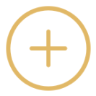
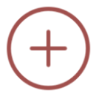
New L&F.

Changed region(s): [[0.0625, 0.0625, 0.9688, 0.9688], [0.3125, 0.3125, 0.7188, 0.7188]]

diff --git a/CoderToDo/Shared/Model/AKConstants.swift b/CoderToDo/Shared/Model/AKConstants.swift
@@ -82,14 +82,14 @@ struct GlobalConstants {
     // L&F
     static let AKDefaultFont = "HelveticaNeue-Thin"
     static let AKSecondaryFont = "HelveticaNeue-CondensedBold"
-    static let AKDefaultBg = Func.AKHexColor(0x373B44)
-    static let AKDefaultFg = Func.AKHexColor(0xffffff)
+    static let AKDefaultBg = Func.AKHexColor(0x202328)
+    static let AKDefaultFg = Func.AKHexColor(0xFFFFFF)
     static let AKTabBarBg = GlobalConstants.AKDefaultBg
     static let AKTabBarTintNormal = GlobalConstants.AKDefaultFg
-    static let AKTabBarTintSelected = Func.AKHexColor(0xE1B866)
+    static let AKTabBarTintSelected = Func.AKHexColor(0x007AFF)
     static let AKDefaultTextfieldBorderBg = Func.AKHexColor(0x999999)
     static let AKOverlaysBg = GlobalConstants.AKDefaultBg
-    static let AKDefaultViewBorderBg = Func.AKHexColor(0x999999)
+    static let AKDefaultViewBorderBg = Func.AKHexColor(0x373B44)
     static let AKDefaultFloatingViewBorderBg = UIColor.black
     static let AKDisabledButtonBg = Func.AKHexColor(0x999999)
     static let AKEnabledButtonBg = Func.AKHexColor(0x0088CC)
@@ -98,10 +98,10 @@ struct GlobalConstants {
     static let AKPickerViewFg = GlobalConstants.AKDefaultFg
     static let AKViewCornerRadius: CGFloat = 8.0
     static let AKButtonCornerRadius: CGFloat = 4.0
-    static let AKDefaultBorderThickness = 1.4
+    static let AKDefaultBorderThickness = 2.0
     static let AKDefaultTextfieldBorderThickness = 2.0
     static let AKDefaultTransitionStyle = UIModalTransitionStyle.crossDissolve
-    static let AKBadgeColorBg = Func.AKHexColor(0xBD5532)
+    static let AKBadgeColorBg = Func.AKHexColor(0x458588)
     static let AKBadgeColorFg = Func.AKHexColor(0xFFFFFF)
     // Validations
     static let AKMaxUsernameLength = 12
@@ -149,7 +149,7 @@ enum CustomBorderDecorationPosition: Int {
 
 enum ProjectStatus: String {
     case OPEN = "Open"
-    case ACEPTING_TASKS = "Accepting Tasks"
+    case ACEPTING_TASKS = "Accepting"
     case CLOSED = "Closed"
 }
 

diff --git a/CoderToDo/iPhone/Controllers/AKSortProjectSelectorViewController.swift b/CoderToDo/iPhone/Controllers/AKSortProjectSelectorViewController.swift
@@ -81,7 +81,7 @@ class AKSortProjectSelectorViewController: AKCustomViewController, UIPickerViewD
             pickerLabel.text = ""
         }
         
-        pickerLabel.font = UIFont(name: GlobalConstants.AKSecondaryFont, size: 18)
+        pickerLabel.font = UIFont(name: GlobalConstants.AKSecondaryFont, size: 16)
         pickerLabel.textAlignment = NSTextAlignment.center
         
         return pickerLabel
@@ -117,12 +117,17 @@ class AKSortProjectSelectorViewController: AKCustomViewController, UIPickerViewD
         self.order.tag = LocalEnums.order.rawValue
         
         // Custom L&F.
-        self.controlsContainer.layer.cornerRadius = GlobalConstants.AKViewCornerRadius
-        self.controlsContainer.layer.masksToBounds = true
         Func.AKAddBlurView(view: self.controlsContainer, effect: UIBlurEffectStyle.dark, addClearColorBgToView: true)
         
         self.filters.layer.cornerRadius = GlobalConstants.AKButtonCornerRadius
         self.order.layer.cornerRadius = GlobalConstants.AKButtonCornerRadius
         self.sort.layer.cornerRadius = GlobalConstants.AKButtonCornerRadius
+        
+        Func.AKAddBorderDeco(
+            self.controlsContainer,
+            color: GlobalConstants.AKDefaultViewBorderBg.cgColor,
+            thickness: GlobalConstants.AKDefaultBorderThickness,
+            position: .top
+        )
     }
 }

diff --git a/CoderToDo/iPhone/Controllers/AKAddViewController.swift b/CoderToDo/iPhone/Controllers/AKAddViewController.swift
@@ -7,6 +7,8 @@ class AKAddViewController: AKCustomViewController
     
     // MARK: Outlets
     @IBOutlet weak var controlsContainer: UIView!
+    @IBOutlet weak var addCategory: UIButton!
+    @IBOutlet weak var addTask: UIButton!
     
     // MARK: Actions
     @IBAction func addCategory(_ sender: Any)
@@ -52,8 +54,16 @@ class AKAddViewController: AKCustomViewController
         super.setup()
         
         // Custom L&F.
-        self.controlsContainer.layer.cornerRadius = GlobalConstants.AKViewCornerRadius
-        self.controlsContainer.layer.masksToBounds = true
         Func.AKAddBlurView(view: self.controlsContainer, effect: UIBlurEffectStyle.dark, addClearColorBgToView: true)
+        
+        self.addCategory.layer.cornerRadius = GlobalConstants.AKButtonCornerRadius
+        self.addTask.layer.cornerRadius = GlobalConstants.AKButtonCornerRadius
+        
+        Func.AKAddBorderDeco(
+            self.controlsContainer,
+            color: GlobalConstants.AKDefaultViewBorderBg.cgColor,
+            thickness: GlobalConstants.AKDefaultBorderThickness,
+            position: .top
+        )
     }
 }

diff --git a/CoderToDo/iPhone/Controllers/AKUsernameInputViewController.swift b/CoderToDo/iPhone/Controllers/AKUsernameInputViewController.swift
@@ -82,6 +82,8 @@ class AKUsernameInputViewController: AKCustomViewController, UITextFieldDelegate
         self.usernameValue.tag = LocalTextField.username.rawValue
         
         // Custom L&F.
+        self.icon.layer.cornerRadius = GlobalConstants.AKButtonCornerRadius * 2.0
+        self.icon.layer.masksToBounds = true
         self.usernameValue.layer.cornerRadius = GlobalConstants.AKButtonCornerRadius
         self.done.layer.cornerRadius = GlobalConstants.AKButtonCornerRadius
     }
